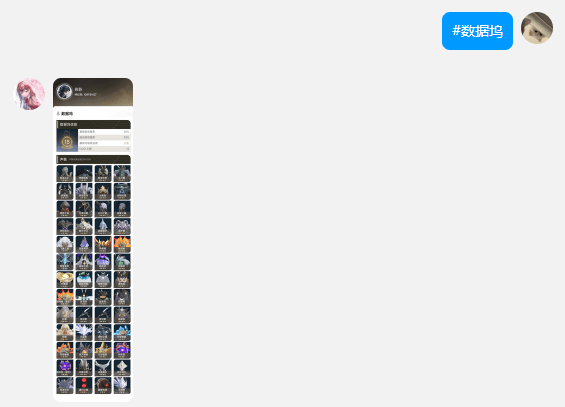
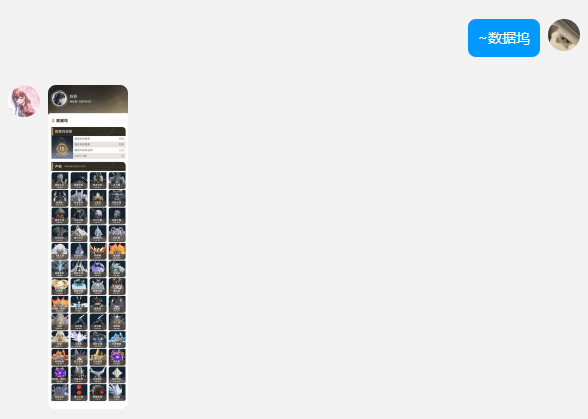
新增声骸图鉴功能

Changed region(s): [[0.0, 0.1769, 0.2407, 0.973], [0.7823, 0.0295, 0.9929, 0.1474]]

diff --git a/resources/Wiki/relics/relics.html b/resources/Wiki/relics/relics.html
@@ -1,0 +1,49 @@
+<!doctype html>
+<html>
+
+<head>
+    <meta http-equiv="content-type" content="text/html;charset=utf-8" />
+    <link rel="shortcut icon" href="#" />
+    <link rel="stylesheet" type="text/css" href="{{pluginResources}}/Wiki/relics/relics.css" />
+    <link rel="preload" href="{{pluginResources}}/Fonts/MiSans-Regular.ttf" as="font" />
+</head>
+
+<body id="body" data-content='{{data}}'>
+    <div id="container">
+        <div id="left">
+            <div id="avatar">
+            </div>
+            <div id="name">{{data.content.title}}</div>
+            <div id="desc-table">
+            </div>
+        </div>
+        <div id="right">
+            <div id="data-table">
+            </div>
+        </div>
+        <div style="clear:both;"></div>
+    </div>
+
+</body>
+
+<script>
+    const dataContent = JSON.parse(document.getElementById('body').getAttribute('data-content'));
+    document.getElementById("avatar").innerHTML = dataContent.content.modules[0].components[0].content;
+    document.getElementById("desc-table").innerHTML = dataContent.content.modules[1].components[0].content;
+    document.getElementById("data-table").innerHTML = dataContent.content.modules[0].components[1].content
+    document.querySelectorAll('#data-table a').forEach(a => a.outerHTML = a.innerHTML);
+    document.getElementById('desc-table').querySelector("table").style.height = "318px"
+    document.getElementById("data-table").querySelector("table").style.height = "840px"
+    const descspanEle = document.getElementById("desc-table").querySelector("table").getElementsByTagName('span')
+    for (var i = 0; i < descspanEle.length; i++) {
+        if (descspanEle[i].style.fontSize) descspanEle[i].style.fontSize = Number(descspanEle[i].style.fontSize.replace("px", "")) * 1.4 + "px"
+    }
+    document.getElementById("desc-table").querySelector("table").border = '0px'
+    document.getElementById("desc-table").querySelector("tr").insertAdjacentHTML("afterend", '<hr style="height: 1px; background-color: #dadada; border: none;">')
+    const spanEle = document.getElementById("data-table").querySelector("table").getElementsByTagName('span')
+    for (var i = 0; i < spanEle.length; i++) {
+        if (spanEle[i].style.fontSize) spanEle[i].style.fontSize = Number(spanEle[i].style.fontSize.replace("px", "")) * 1.4 + "px"
+    }
+</script>
+
+</html>

diff --git a/resources/Wiki/relics/relics.css b/resources/Wiki/relics/relics.css
@@ -1,0 +1,86 @@
+@font-face {
+    font-family: "MiSans";
+    src: url("../../Fonts/MiSans-Regular.ttf");
+    font-weight: normal;
+    font-style: normal;
+}
+
+* {
+    margin: 0;
+    padding: 0;
+    box-sizing: border-box;
+    user-select: none;
+}
+
+#body {
+    width: 1890px;
+    height: 1000px;
+    background: url(./imgs/relics.png) no-repeat;
+    font-family: "MiSans";
+}
+
+#container {
+    padding-bottom: 50px;
+}
+
+#left {
+    height: auto;
+    width: 45%;
+    float: left;
+}
+
+#avatar {
+    height: 440px;
+}
+
+#avatar img {
+    position: relative;
+    top: 77px;
+    left: 264px;
+    width: 360px;
+    height: 360px;
+    border-radius: 15px 0px;
+}
+
+#name {
+    padding: 40px 0px 0px 44px;
+    height: 150px;
+    color: #474747;
+    text-align: center;
+    font-size: 42px;
+}
+
+#desc-table {
+    position: relative;
+    left: 106px;
+    width: 708px;
+    background-color: #fafafa;
+    border: 3px solid #dadada;
+    border-radius: 15px 0px 15px 0px;
+}
+
+#desc-table td {
+    padding: 0px 30px;
+}
+
+#right {
+    height: auto;
+    width: 55%;
+    float: right;
+}
+
+#data-table {
+    margin: 70px 104px 0px 13px;
+    font-size: 20px;
+    overflow: hidden;
+    border: 1px solid #dadada;
+    border-radius: 15px 0px 15px 0px;
+}
+
+#data-table>table {
+    border: 0px solid #dadada;
+}
+
+#data-table td {
+    padding: 0px 30px;
+}

diff --git a/apps/Guide.js b/apps/Guide.js
@@ -32,7 +32,7 @@ export class Guide extends plugin {
 
         if (!entryData.status) {
             logger.warn(`[Waves-Plugin] 未能获取图鉴内容：${message}`)
-            if (e.msg.includes("鸣潮")) {
+            if (e.msg.startsWith("~") || e.msg.startsWith("～") || e.msg.startsWith("鸣潮")) {
                 await e.reply(`未能获取到${message}的图鉴，请检查输入是否正确`)
             }
             return false
@@ -53,7 +53,8 @@ export class Guide extends plugin {
                 break
             // 声骸
             case "1107":
-                await e.reply([segment.image((await wiki.getRecord(name)).record.content.contentUrl), `暂时还没有声骸：${message}的图鉴`])
+                imageCard = await Render.wikiRelics(entryData.record)
+                await e.reply(imageCard)
                 break
             // 合鸣效果
             case "1219":

diff --git a/model/render.js b/model/render.js
@@ -175,6 +175,26 @@ class Render {
 
         return base64
     }
+
+    async wikiRelics(data) {
+        function replace(str) {
+            return str.replace(/\\"/g, '"').replace(/\\n/g, '')
+        }
+
+        data.content.modules[0].components[0].content = replace(data.content.modules[0].components[0].content)
+        data.content.modules[1].components[0].content = replace(data.content.modules[1].components[0].content)
+        data.content.modules[0].components[1].content = replace(data.content.modules[0].components[1].content)
+
+        const base64 = await puppeteer.screenshot('waves-plugin', {
+            saveId: 'wikiRelics',
+            imgType: 'png',
+            tplFile: `${pluginResources}/Wiki/relics/relics.html`,
+            pluginResources,
+            data
+        })
+
+        return base64
+    }
 }
 
 export default new Render()

diff --git a/resources/Wiki/weapon/weapon.css b/resources/Wiki/weapon/weapon.css
@@ -11,6 +11,7 @@
     box-sizing: border-box;
     user-select: none;
 }
+
 #container {
     padding-bottom: 50px;
 }

diff --git a/README.md b/README.md
@@ -52,20 +52,26 @@ pnpm install --filter=waves-plugin
 - [x] 探索度查询
 - [x] 挑战数据查询
 - [x] 抽卡记录查询分析
-- [x] 角色 / 武器图鉴
+- [x] 角色 / 武器 / 声骸图鉴
 - [ ] 角色卡片查询
+- [ ] 角色攻略（联系作者中）
 
 ## 功能列表
 
 <details><summary>点击展开</summary>
 
-| 命令      | 功能                       | 示例                                                                                          |
-| --------- | -------------------------- | --------------------------------------------------------------------------------------------- |
-| ~绑定 | 绑定账户 Token             | ![renderings](https://cdn.jsdelivr.net/gh/erzaozi/waves-plugin/resources/readme/Bind.png)     |
-| ~签到 | 库街区签到                 | ![renderings](https://cdn.jsdelivr.net/gh/erzaozi/waves-plugin/resources/readme/SignIn.png)   |
-| ~卡片 | 获取用户详细信息           | ![renderings](https://cdn.jsdelivr.net/gh/erzaozi/waves-plugin/resources/readme/User.png) |
-| ~体力 | 获取用户日常数据卡片       | ![renderings](https://cdn.jsdelivr.net/gh/erzaozi/waves-plugin/resources/readme/Sanity.png)     |
-| ~数据坞   | 获取用户数据坞以及声骸信息 | ![renderings](https://cdn.jsdelivr.net/gh/erzaozi/waves-plugin/resources/readme/Calabash.png)     |
+| 命令      | 功能                       | 示例                                                                                           |
+| --------- | -------------------------- | ---------------------------------------------------------------------------------------------- |
+| ~登录     | 绑定账户 Token             | ![renderings](https://cdn.jsdelivr.net/gh/erzaozi/waves-plugin/resources/readme/Bind.png)      |
+| ~卡片     | 获取用户详细信息           | ![renderings](https://cdn.jsdelivr.net/gh/erzaozi/waves-plugin/resources/readme/User.png)      |
+| ~签到     | 库街区签到                 | ![renderings](https://cdn.jsdelivr.net/gh/erzaozi/waves-plugin/resources/readme/SignIn.png)    |
+| ~体力     | 获取用户日常数据卡片       | ![renderings](https://cdn.jsdelivr.net/gh/erzaozi/waves-plugin/resources/readme/Sanity.png)    |
+| ~数据坞   | 获取用户数据坞以及声骸信息 | ![renderings](https://cdn.jsdelivr.net/gh/erzaozi/waves-plugin/resources/readme/Calabash.png)  |
+| ~探索度   | 获取用户探索度数据卡片     | ![renderings](https://cdn.jsdelivr.net/gh/erzaozi/waves-plugin/resources/readme/Explore.png)   |
+| ~全息战略 | 获取用户挑战数据卡片       | ![renderings](https://cdn.jsdelivr.net/gh/erzaozi/waves-plugin/resources/readme/Challenge.png) |
+| ~抽卡记录 | 获取用户抽卡数据卡片       | ![renderings](https://cdn.jsdelivr.net/gh/erzaozi/waves-plugin/resources/readme/Gacha.png)     |
+| ~图鉴     | 获取角色、武器、声骸等图鉴 | ![renderings](https://cdn.jsdelivr.net/gh/erzaozi/waves-plugin/resources/readme/Guide.png)     |
+| ~帮助     | 获取插件帮助               | ![renderings](https://cdn.jsdelivr.net/gh/erzaozi/waves-plugin/resources/readme/Help.png)      |
 
 </details>
 
@@ -81,6 +87,7 @@ pnpm install --filter=waves-plugin
 
 > [!CAUTION]
 > 本项目 `resources` 文件夹下的所有文件均受到以下限制：
+>
 > - **禁止复制**：不允许复制 `resources` 文件夹中的任何文件。
 > - **禁止修改**：不允许修改 `resources` 文件夹中的任何文件。
 > - **禁止再分发**：不允许以任何形式再分发 `resources` 文件夹中的任何文件，包括但不限于公开托管、分享或将其包含在其他项目中。
